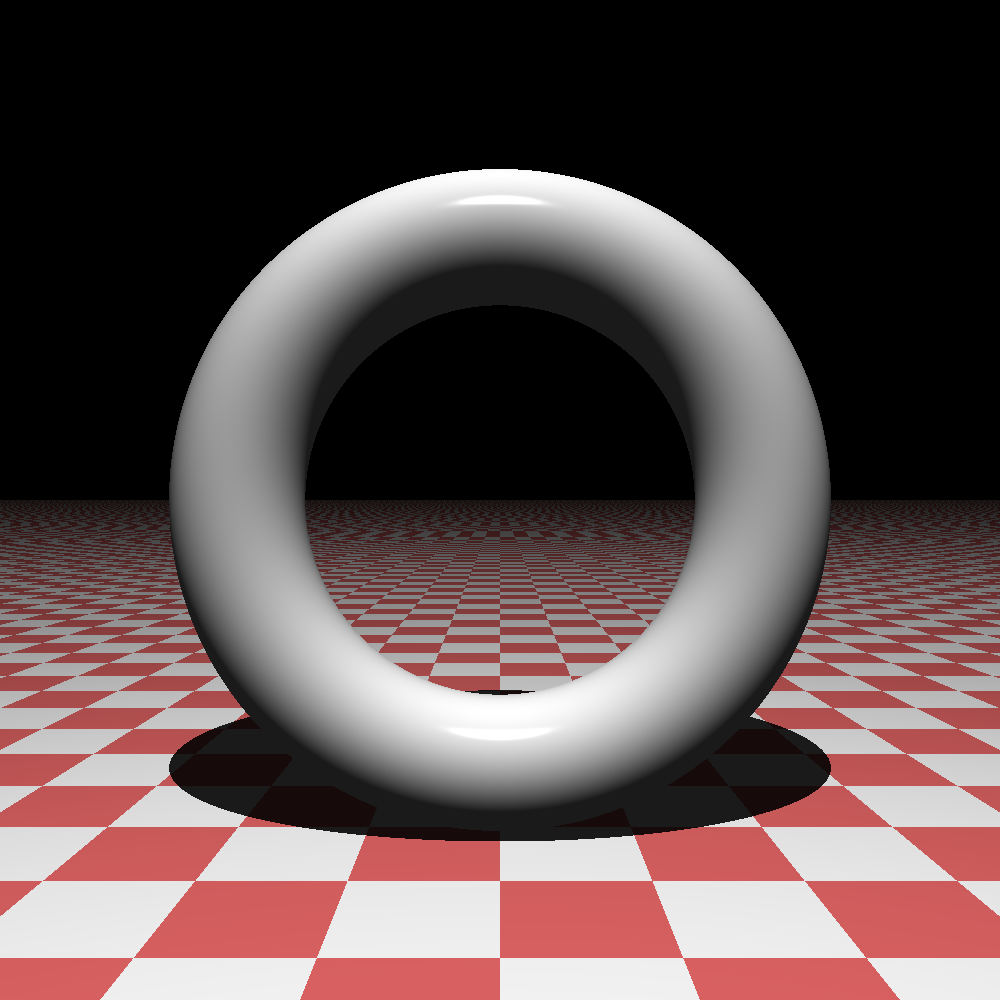
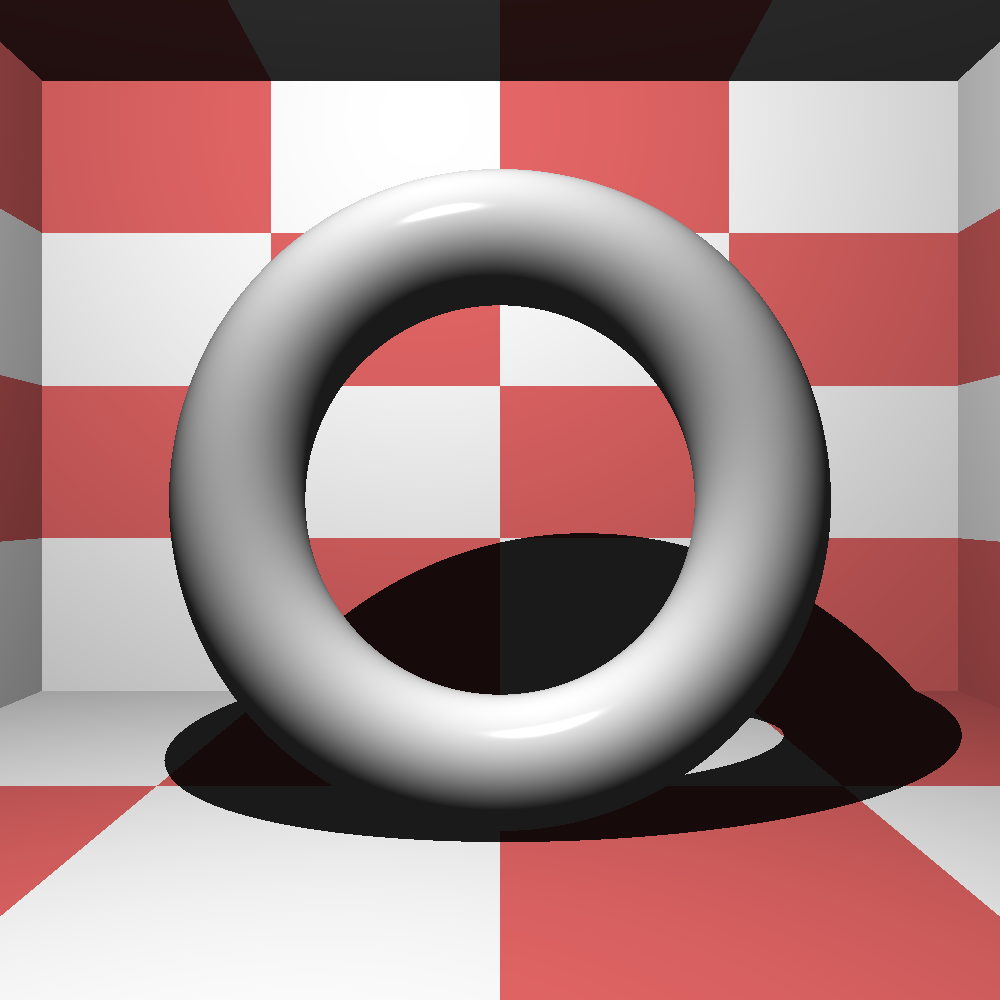
Torus. Finally happy with first scene.

diff --git a/src/main/kotlin/apps/torus.kt b/src/main/kotlin/apps/torus.kt
@@ -10,6 +10,7 @@ import math.Tuple
 import pattern.CheckerPattern
 import scene.Camera
 import scene.World
+import shapes.Cube
 import shapes.Plane
 import shapes.Torus
 import java.io.File
@@ -18,7 +19,10 @@ import kotlin.system.measureTimeMillis
 
 fun main() {
     val cube = run {
-        val t = Matrix.translate(0, 1.5, 0) * Matrix.scale(2, 4, 8)
+        val t = Matrix.scale(6, 4, 8)
+        val p = CheckerPattern(Color(0.9, 0.4, 0.4), Color.WHITE, Matrix.scale(0.5, 0.5, 0.5))
+        val m = Material(p, specular = 0)
+        Cube(t, m)
     }
 
     val plane = run {
@@ -28,18 +32,19 @@ fun main() {
     }
 
     val torus2 = run {
-        val t = Matrix.translate(0, 0, 2) * Matrix.rotateX(PI / 2)
+//        val t = Matrix.translate(0, 0, 2) * Matrix.rotateX(PI / 2)
+        val t = Matrix.translate(0, -1.5, 3) * Matrix.rotateX(PI / 2)
         Torus(2, 0.5, t)
     }
 
     val world = run {
-        val light = PointLight(Tuple.point(0, 10, -5))
-        World(listOf(plane, torus2), listOf(light))
+        val light = PointLight(Tuple.point(-1, 3.5, -1))
+        World(listOf(cube, torus2), listOf(light))
     }
 
     val camera = run {
-        val from = Tuple.point(0, 0, -5)
-        val to = Tuple.PZERO
+        val from = Tuple.point(0, -1.5, -4)
+        val to = Tuple.point(0, -1.5, 0)
         val t = from.viewTransformationFrom(to, Tuple.VY)
         Camera(1000, 1000, 1, t)
     }
